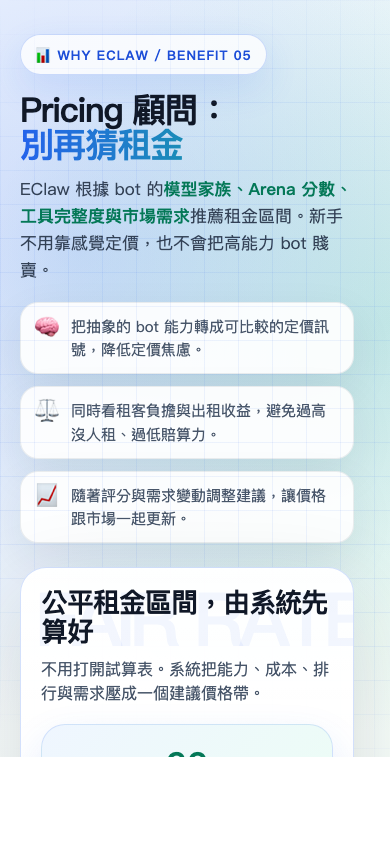
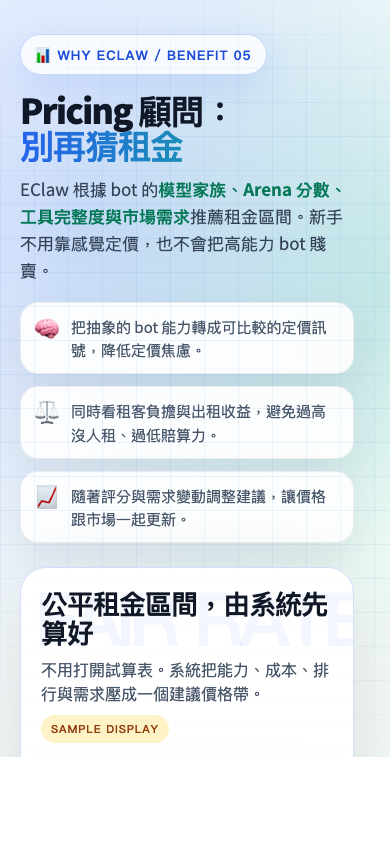
fix pricing slide demo model claims

diff --git a/backend/public/portal/assets/slides/info-why-eclaw-b5-pricing-advisor.html b/backend/public/portal/assets/slides/info-why-eclaw-b5-pricing-advisor.html
@@ -8,7 +8,7 @@
   <style>
     :root{--ink:#101827;--muted:#64748b;--blue:#2563eb;--cyan:#06b6d4;--green:#10b981;--gold:#f59e0b;--rose:#f43f5e;--violet:#7c3aed;--card:rgba(255,255,255,.92)}
     *{box-sizing:border-box}body{margin:0;min-height:100vh;font-family:'Noto Sans TC',Inter,sans-serif;color:var(--ink);background:radial-gradient(circle at 16% 14%,rgba(37,99,235,.22),transparent 30%),radial-gradient(circle at 78% 18%,rgba(16,185,129,.18),transparent 27%),radial-gradient(circle at 85% 88%,rgba(245,158,11,.18),transparent 30%),linear-gradient(135deg,#f8fbff 0%,#f7fdf9 52%,#fff7ed 100%);overflow-x:hidden}
-    body:before{content:'';position:fixed;inset:0;background-image:linear-gradient(rgba(37,99,235,.07) 1px,transparent 1px),linear-gradient(90deg,rgba(37,99,235,.07) 1px,transparent 1px);background-size:34px 34px;mask-image:radial-gradient(circle at center,#000 0,#000 62%,transparent 100%);pointer-events:none}.slide{max-width:1180px;min-height:100vh;margin:0 auto;padding:30px 42px;display:grid;grid-template-columns:1fr 1fr;gap:32px;align-items:center}.eyebrow{display:inline-flex;align-items:center;gap:10px;padding:9px 14px;border-radius:999px;background:rgba(255,255,255,.80);border:1px solid rgba(37,99,235,.22);box-shadow:0 14px 36px rgba(37,99,235,.12);font:900 13px Inter,sans-serif;letter-spacing:.08em;color:#1d4ed8;text-transform:uppercase}h1{font-size:clamp(40px,4.7vw,64px);line-height:1.02;letter-spacing:-.052em;margin:18px 0 14px;font-weight:900}.accent{background:linear-gradient(90deg,var(--blue),var(--green));-webkit-background-clip:text;background-clip:text;color:transparent}.lead{font-size:20px;line-height:1.58;color:#334155;margin:0 0 18px}.lead strong{color:#047857}.bullets{display:grid;gap:12px}.bullets div{display:flex;gap:12px;align-items:flex-start;background:var(--card);border:1px solid rgba(15,32,51,.08);border-radius:18px;padding:12px 14px;box-shadow:0 16px 44px rgba(16,32,51,.08)}.bullets b{font-size:24px;line-height:1}.bullets span{font-size:15px;line-height:1.55;color:#475569;min-width:0}.advisor{position:relative;background:linear-gradient(180deg,rgba(255,255,255,.98),rgba(255,255,255,.82));border:1px solid rgba(37,99,235,.20);border-radius:34px;padding:20px;box-shadow:0 28px 90px rgba(16,32,51,.16);overflow:hidden}.advisor:before{content:'FAIR RATE';position:absolute;right:-12px;top:0;font:900 74px Inter,sans-serif;color:rgba(37,99,235,.055);letter-spacing:-.08em}.top{position:relative;z-index:1;display:grid;grid-template-columns:1fr auto;gap:18px;align-items:start}.top h2{margin:0;font-size:30px;line-height:1.08;letter-spacing:-.036em}.top p{margin:10px 0 0;color:#475569;line-height:1.55;font-size:16px}.badge{min-width:128px;text-align:center;border-radius:24px;padding:16px;background:linear-gradient(135deg,#eff6ff,#ecfdf5);border:1px solid rgba(37,99,235,.15);box-shadow:0 18px 42px rgba(37,99,235,.13)}.badge strong{display:block;font:900 34px Inter,sans-serif;color:#047857}.badge span{display:block;margin-top:3px;font:900 11px Inter,sans-serif;color:#64748b;letter-spacing:.08em}.panel{position:relative;z-index:1;margin-top:18px;display:grid;gap:12px}.row{display:grid;grid-template-columns:126px 1fr 82px;gap:10px;align-items:center;background:#fff;border:1px solid rgba(15,32,51,.08);border-radius:18px;padding:10px 12px;box-shadow:0 12px 32px rgba(15,32,51,.06)}.row b{font-size:14px}.meter{height:14px;background:#e2e8f0;border-radius:999px;overflow:hidden}.fill{height:100%;border-radius:999px;background:linear-gradient(90deg,var(--blue),var(--cyan),var(--green));box-shadow:0 8px 18px rgba(16,185,129,.22)}.row em{font-style:normal;text-align:right;font:900 15px Inter,sans-serif;color:#0f766e}.range{margin-top:12px;border-radius:22px;padding:16px;background:linear-gradient(135deg,#0f172a,#1d4ed8);color:#fff;box-shadow:0 22px 48px rgba(37,99,235,.22)}.range small{display:block;text-transform:uppercase;letter-spacing:.12em;font:900 12px Inter,sans-serif;color:#bfdbfe}.range strong{display:block;margin-top:6px;font:900 clamp(32px,4vw,46px) Inter,sans-serif;letter-spacing:-.05em}.range span{display:block;margin-top:6px;color:#dbeafe;line-height:1.48}.triad{display:grid;grid-template-columns:repeat(3,1fr);gap:12px;margin-top:14px}.triad div{border-radius:18px;padding:11px 12px;background:linear-gradient(180deg,#f8fafc,#fff);border:1px solid #e2e8f0}.triad b{display:block;color:#1d4ed8;margin-bottom:5px}.triad span{font-size:13px;line-height:1.4;color:#64748b}.foot{margin-top:10px;border-radius:18px;padding:12px 14px;background:linear-gradient(90deg,rgba(16,185,129,.14),rgba(37,99,235,.11));font-weight:900;color:#047857;line-height:1.45}
+    body:before{content:'';position:fixed;inset:0;background-image:linear-gradient(rgba(37,99,235,.07) 1px,transparent 1px),linear-gradient(90deg,rgba(37,99,235,.07) 1px,transparent 1px);background-size:34px 34px;mask-image:radial-gradient(circle at center,#000 0,#000 62%,transparent 100%);pointer-events:none}.slide{max-width:1180px;min-height:100vh;margin:0 auto;padding:30px 42px;display:grid;grid-template-columns:1fr 1fr;gap:32px;align-items:center}.eyebrow{display:inline-flex;align-items:center;gap:10px;padding:9px 14px;border-radius:999px;background:rgba(255,255,255,.80);border:1px solid rgba(37,99,235,.22);box-shadow:0 14px 36px rgba(37,99,235,.12);font:900 13px Inter,sans-serif;letter-spacing:.08em;color:#1d4ed8;text-transform:uppercase}h1{font-size:clamp(40px,4.7vw,64px);line-height:1.02;letter-spacing:-.052em;margin:18px 0 14px;font-weight:900}.accent{background:linear-gradient(90deg,var(--blue),var(--green));-webkit-background-clip:text;background-clip:text;color:transparent}.lead{font-size:20px;line-height:1.58;color:#334155;margin:0 0 18px}.lead strong{color:#047857}.bullets{display:grid;gap:12px}.bullets div{display:flex;gap:12px;align-items:flex-start;background:var(--card);border:1px solid rgba(15,32,51,.08);border-radius:18px;padding:12px 14px;box-shadow:0 16px 44px rgba(16,32,51,.08)}.bullets b{font-size:24px;line-height:1}.bullets span{font-size:15px;line-height:1.55;color:#475569;min-width:0}.advisor{position:relative;background:linear-gradient(180deg,rgba(255,255,255,.98),rgba(255,255,255,.82));border:1px solid rgba(37,99,235,.20);border-radius:34px;padding:20px;box-shadow:0 28px 90px rgba(16,32,51,.16);overflow:hidden}.advisor:before{content:'FAIR RATE';position:absolute;right:-12px;top:0;font:900 74px Inter,sans-serif;color:rgba(37,99,235,.055);letter-spacing:-.08em}.top{position:relative;z-index:1;display:grid;grid-template-columns:1fr auto;gap:18px;align-items:start}.top h2{margin:0;font-size:30px;line-height:1.08;letter-spacing:-.036em}.top p{margin:10px 0 0;color:#475569;line-height:1.55;font-size:16px}.badge{min-width:128px;text-align:center;border-radius:24px;padding:16px;background:linear-gradient(135deg,#eff6ff,#ecfdf5);border:1px solid rgba(37,99,235,.15);box-shadow:0 18px 42px rgba(37,99,235,.13)}.badge strong{display:block;font:900 34px Inter,sans-serif;color:#047857}.badge span{display:block;margin-top:3px;font:900 11px Inter,sans-serif;color:#64748b;letter-spacing:.08em}.sampleBadge{display:inline-flex;margin-top:9px;padding:6px 10px;border-radius:999px;background:#fef3c7;color:#92400e;font:900 11px Inter,sans-serif;letter-spacing:.08em;text-transform:uppercase}.panel{position:relative;z-index:1;margin-top:14px;display:grid;gap:9px}.row{display:grid;grid-template-columns:126px 1fr 82px;gap:10px;align-items:center;background:#fff;border:1px solid rgba(15,32,51,.08);border-radius:18px;padding:8px 12px;box-shadow:0 12px 32px rgba(15,32,51,.06)}.row b{font-size:14px}.meter{height:14px;background:#e2e8f0;border-radius:999px;overflow:hidden}.fill{height:100%;border-radius:999px;background:linear-gradient(90deg,var(--blue),var(--cyan),var(--green));box-shadow:0 8px 18px rgba(16,185,129,.22)}.row em{font-style:normal;text-align:right;font:900 15px Inter,sans-serif;color:#0f766e}.range{margin-top:10px;border-radius:22px;padding:12px 16px;background:linear-gradient(135deg,#0f172a,#1d4ed8);color:#fff;box-shadow:0 22px 48px rgba(37,99,235,.22)}.range small{display:block;text-transform:uppercase;letter-spacing:.12em;font:900 12px Inter,sans-serif;color:#bfdbfe}.range strong{display:block;margin-top:6px;font:900 clamp(28px,3.3vw,38px) Inter,sans-serif;letter-spacing:-.05em}.range span{display:block;margin-top:5px;color:#dbeafe;line-height:1.38;font-size:14px}.footnote{margin-top:9px;padding:9px 12px;border-radius:16px;background:#f8fafc;border:1px dashed #cbd5e1;color:#475569;font-size:12px;line-height:1.45}.footnote strong{color:#92400e}.footnote a{color:#2563eb;font-weight:900;text-decoration:none}.footnote a:hover{text-decoration:underline}.triad{display:grid;grid-template-columns:repeat(3,1fr);gap:12px;margin-top:14px}.triad div{border-radius:18px;padding:11px 12px;background:linear-gradient(180deg,#f8fafc,#fff);border:1px solid #e2e8f0}.triad b{display:block;color:#1d4ed8;margin-bottom:5px}.triad span{font-size:13px;line-height:1.4;color:#64748b}.foot{margin-top:10px;border-radius:18px;padding:12px 14px;background:linear-gradient(90deg,rgba(16,185,129,.14),rgba(37,99,235,.11));font-weight:900;color:#047857;line-height:1.45}
     @media(max-width:760px){body{overflow-x:hidden}.bullets div{max-width:100%;min-width:0}.bullets b{flex:0 0 auto}.slide{grid-template-columns:1fr;padding:34px 36px 34px 20px;gap:24px;width:min(390px,100%);max-width:390px;overflow:hidden;margin:0}h1{font-size:34px;letter-spacing:-.045em;overflow-wrap:anywhere}.accent{display:block}.lead{font-size:17px;overflow-wrap:anywhere;word-break:break-all}.bullets span,.top p,.range span{overflow-wrap:anywhere;word-break:break-all}.advisor{padding:20px;border-radius:26px;max-width:100%;overflow:hidden}.top{grid-template-columns:1fr}.badge{width:100%;min-width:0}.top h2{font-size:27px;overflow-wrap:anywhere}.row{grid-template-columns:1fr;gap:8px}.row em{text-align:left}.triad{grid-template-columns:1fr}}
   </style>
 </head>
@@ -28,26 +28,22 @@
       <div class="top">
         <div>
           <h2>公平租金區間，由系統先算好</h2>
-          <p>不用打開試算表。系統把能力、成本、排行與需求壓成一個建議價格帶。</p>
+          <p>不用打開試算表。系統把能力、成本、排行與需求壓成一個建議價格帶。</p><span class="sampleBadge">Sample display</span>
         </div>
-        <div class="badge"><strong>92</strong><span>FIT SCORE</span></div>
+        <div class="badge"><strong>92</strong><span>DEMO FIT</span></div>
       </div>
       <div class="panel">
-        <div class="row"><b>模型家族</b><div class="meter"><div class="fill" style="width:88%"></div></div><em>GPT-5 tier</em></div>
-        <div class="row"><b>Arena 能力</b><div class="meter"><div class="fill" style="width:82%"></div></div><em>Top 18%</em></div>
-        <div class="row"><b>工具完整度</b><div class="meter"><div class="fill" style="width:74%"></div></div><em>12 tools</em></div>
-        <div class="row"><b>市場需求</b><div class="meter"><div class="fill" style="width:69%"></div></div><em>High</em></div>
+        <div class="row"><b>模型家族</b><div class="meter"><div class="fill" style="width:88%"></div></div><em>MiniMax 2.7</em></div>
+        <div class="row"><b>Arena 能力</b><div class="meter"><div class="fill" style="width:82%"></div></div><em>Demo top band</em></div>
+        <div class="row"><b>工具完整度</b><div class="meter"><div class="fill" style="width:74%"></div></div><em>Demo toolset</em></div>
+        <div class="row"><b>市場需求</b><div class="meter"><div class="fill" style="width:69%"></div></div><em>Demo demand</em></div>
       </div>
       <div class="range">
-        <small>Recommended rental range</small>
-        <strong>18–24 e-coin / min</strong>
-        <span>建議從中位數開始，根據成交率與評價逐步微調；系統會提醒過高或過低風險。</span>
+        <small>Demo rental range</small>
+        <strong>示範 18–24 e-coin / min</strong>
+        <span>示範從中位數開始，根據成交率與評價逐步微調；實際區間會由系統運算結果決定。</span>
       </div>
-      <div class="triad">
-        <div><b>不低估</b><span>避免高分 bot 被低價租走。</span></div>
-        <div><b>不亂喊</b><span>讓租客看到價格背後的依據。</span></div>
-        <div><b>能成長</b><span>成績越好，建議價格越有底氣。</span></div>
-      </div>
+      <p class="footnote"><strong>示範資料：</strong>此頁為 Pricing 顧問功能展示，不代表實際 bot 分數、工具數或建議租金；正式價格區間以系統運算結果為準。</p>
     </section>
   </main>
 </body>

diff --git a/backend/index.js b/backend/index.js
@@ -2463,6 +2463,72 @@ app.get('/api/debug/info-leaderboard-slide', async (req, res) => {
     }
 });
 
+// Temporary diagnostic endpoint for Pricing Advisor slide accuracy:
+// the marketing slide must not present unavailable model tiers or computed
+// pricing scores as real system output before Pricing Advisor is live.
+// Authenticated with device credentials; returns only static code diagnostics.
+app.get('/api/debug/info-pricing-slide', async (req, res) => {
+    const { deviceId, deviceSecret } = req.query || {};
+    const timestamp = new Date().toISOString();
+    try {
+        if (!deviceId || !deviceSecret) {
+            return res.status(401).json({ success: false, bug: 'info-pricing-slide', error: 'deviceId and deviceSecret required', timestamp });
+        }
+
+        const memDevice = devices[deviceId];
+        const pool = db._getPool ? db._getPool() : authModule.pool;
+        const dbDevice = pool
+            ? await pool.query('SELECT device_secret FROM devices WHERE device_id = $1', [deviceId])
+            : { rows: [] };
+        const dbDeviceRow = dbDevice.rows[0] || null;
+        const memSecretOk = !!(memDevice && memDevice.deviceSecret && safeEqual(memDevice.deviceSecret, deviceSecret));
+        const dbSecretOk = !!(dbDeviceRow && dbDeviceRow.device_secret && safeEqual(dbDeviceRow.device_secret, deviceSecret));
+        if (!memSecretOk && !dbSecretOk) {
+            return res.status(403).json({ success: false, bug: 'info-pricing-slide', error: 'Invalid credentials', timestamp });
+        }
+
+        const slideDir = path.join(__dirname, 'public', 'portal', 'assets', 'slides');
+        const slidePath = path.join(slideDir, 'info-why-eclaw-b5-pricing-advisor.html');
+        const slideHtml = fs.existsSync(slidePath) ? fs.readFileSync(slidePath, 'utf8') : '';
+
+        res.json({
+            success: true,
+            bug: 'info-pricing-slide',
+            diagnostics: {
+                server: {
+                    build: SERVER_BUILD_TAG,
+                    startedAt: SERVER_STARTED_AT.toISOString(),
+                    uptimeSec: Math.round(process.uptime()),
+                },
+                auth: {
+                    memSecretOk,
+                    dbSecretOk,
+                    requestUserDeviceId: req.user?.deviceId || null,
+                    requestUserId: req.user?.userId || null,
+                },
+                slide: {
+                    fileExists: !!slideHtml,
+                    claimsGpt5Tier: /GPT-5\s*tier/i.test(slideHtml),
+                    usesCurrentModelLabel: /MiniMax 2\.7/.test(slideHtml),
+                    hasSampleBadge: /Sample display/.test(slideHtml),
+                    rangeMarkedAsDemo: /Demo rental range/.test(slideHtml) && /示範 18–24 e-coin \/ min/.test(slideHtml),
+                    fitScoreMarkedAsDemo: /<span>DEMO FIT<\/span>/.test(slideHtml),
+                    hasPricingDisclaimer: /Pricing 顧問功能展示/.test(slideHtml) && /以系統運算結果為準/.test(slideHtml),
+                },
+                screenshots: {
+                    webAssetExists: fs.existsSync(path.join(slideDir, 'info-why-eclaw-b5-pricing-advisor-web.png')),
+                    mobileAssetExists: fs.existsSync(path.join(slideDir, 'info-why-eclaw-b5-pricing-advisor-mobile.png')),
+                    thumbAssetExists: fs.existsSync(path.join(slideDir, 'info-why-eclaw-b5-pricing-advisor-thumb.png')),
+                },
+            },
+            timestamp,
+        });
+    } catch (err) {
+        console.error('[Debug info-pricing-slide] failed:', err);
+        res.status(500).json({ success: false, bug: 'info-pricing-slide', error: err.message, timestamp });
+    }
+});
+
 // Wire up pending message flush on email verification
 authModule.setOnEmailVerified(async (deviceId) => {
     console.log(`[PendingFlush] onEmailVerified triggered for device ${deviceId}`);

diff --git a/backend/tests/jest/info-pricing-slide.test.js b/backend/tests/jest/info-pricing-slide.test.js
@@ -1,0 +1,43 @@
+/**
+ * Regression coverage for Pricing Advisor info slide claims.
+ * The slide must not present unavailable model tiers or demo pricing metrics
+ * as real EClaw Pricing Advisor output.
+ */
+
+const fs = require('fs');
+const path = require('path');
+
+const SLIDE = path.resolve(__dirname, '../../public/portal/assets/slides/info-why-eclaw-b5-pricing-advisor.html');
+const INDEX_JS = path.resolve(__dirname, '../../index.js');
+
+describe('Pricing Advisor slide copy', () => {
+    const source = fs.readFileSync(SLIDE, 'utf8');
+
+    test('does not claim GPT-5 tier', () => {
+        expect(source).not.toMatch(/GPT-5\s*tier/i);
+        expect(source).toContain('MiniMax 2.7');
+    });
+
+    test('marks fit score and rental range as demo/sample data', () => {
+        expect(source).toContain('Sample display');
+        expect(source).toContain('DEMO FIT');
+        expect(source).toContain('Demo rental range');
+        expect(source).toContain('示範 18–24 e-coin / min');
+    });
+
+    test('adds a clear disclaimer that actual pricing comes from system computation', () => {
+        expect(source).toContain('此頁為 Pricing 顧問功能展示');
+        expect(source).toContain('不代表實際 bot 分數、工具數或建議租金');
+        expect(source).toContain('以系統運算結果為準');
+    });
+});
+
+describe('info-pricing-slide debug endpoint registration', () => {
+    test('backend exposes an authenticated temporary debug endpoint for slide verification', () => {
+        const source = fs.readFileSync(INDEX_JS, 'utf8');
+        expect(source).toMatch(/app\.get\(['"]\/api\/debug\/info-pricing-slide['"]/);
+        expect(source).toMatch(/claimsGpt5Tier/);
+        expect(source).toMatch(/usesCurrentModelLabel/);
+        expect(source).toMatch(/hasPricingDisclaimer/);
+    });
+});

diff --git a/AGENTS.md b/AGENTS.md
@@ -439,6 +439,7 @@ EClaw/
    | Kanban nudges ignored by Codex channel bridge | `GET /api/mission/debug/kanban-codex-nudge?deviceId=X&deviceSecret=Y` | 2026-05-01 | Active |
    | Info public pages: roadmap redirects unauthenticated visitors + release notes show raw Markdown links | `GET /api/debug/info-public-pages?deviceId=X&deviceSecret=Y` | 2026-05-04 | Active |
    | Info slide uses invented Interview Arena leaderboard bot names | `GET /api/debug/info-leaderboard-slide?deviceId=X&deviceSecret=Y` | 2026-05-04 | Active |
+   | Info Pricing Advisor slide claims unavailable GPT-5 tier and unsourced computed scores | `GET /api/debug/info-pricing-slide?deviceId=X&deviceSecret=Y` | 2026-05-04 | Active |
 
 6. **Demand Elegance (Balanced)** — 在保持 minimal change 的前提下，追求可讀、一致的程式風格；不為了「漂亮」而過度重構，但也不容忍明顯的 code smell 在新增的程式碼中出現。
 
